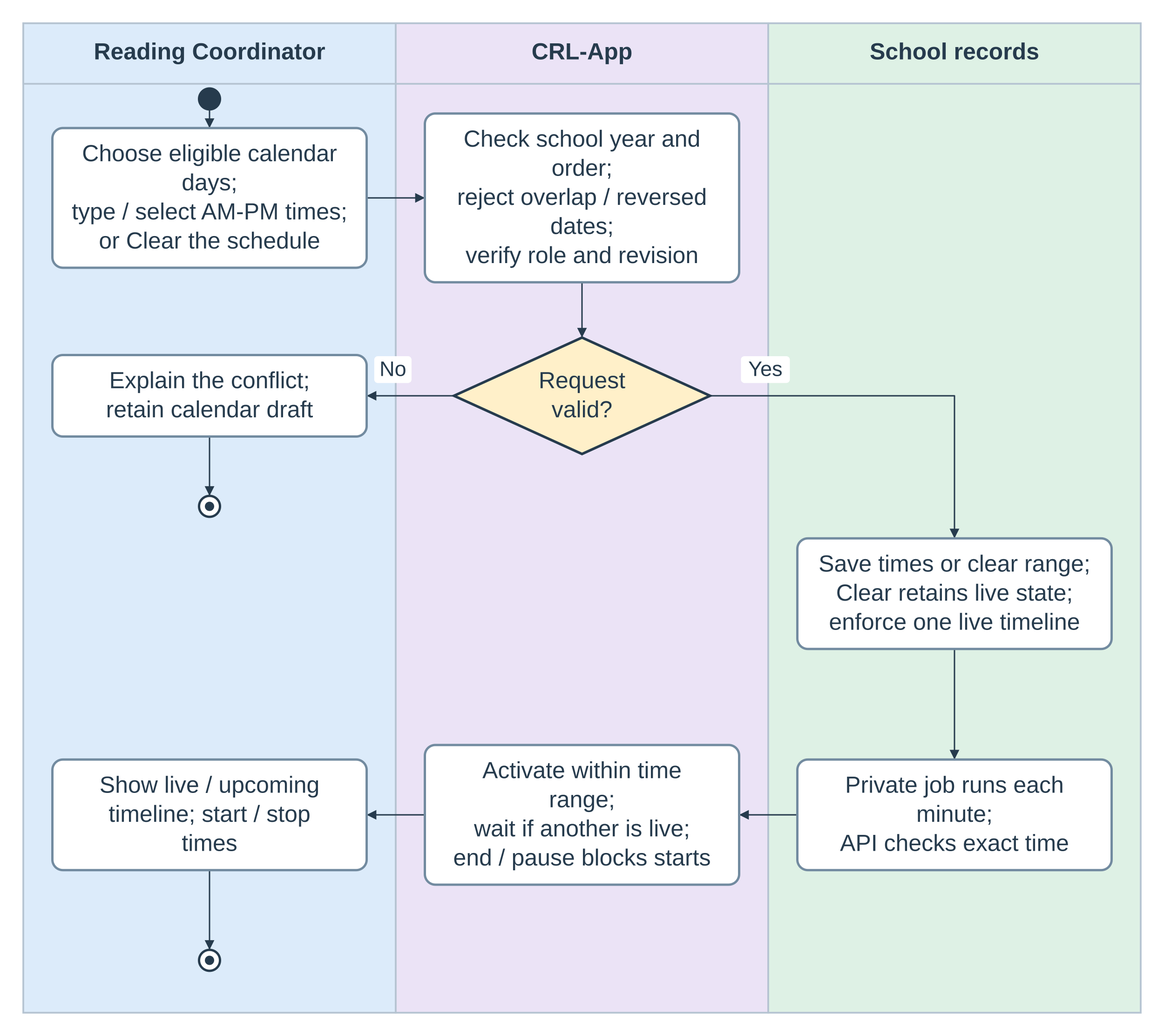
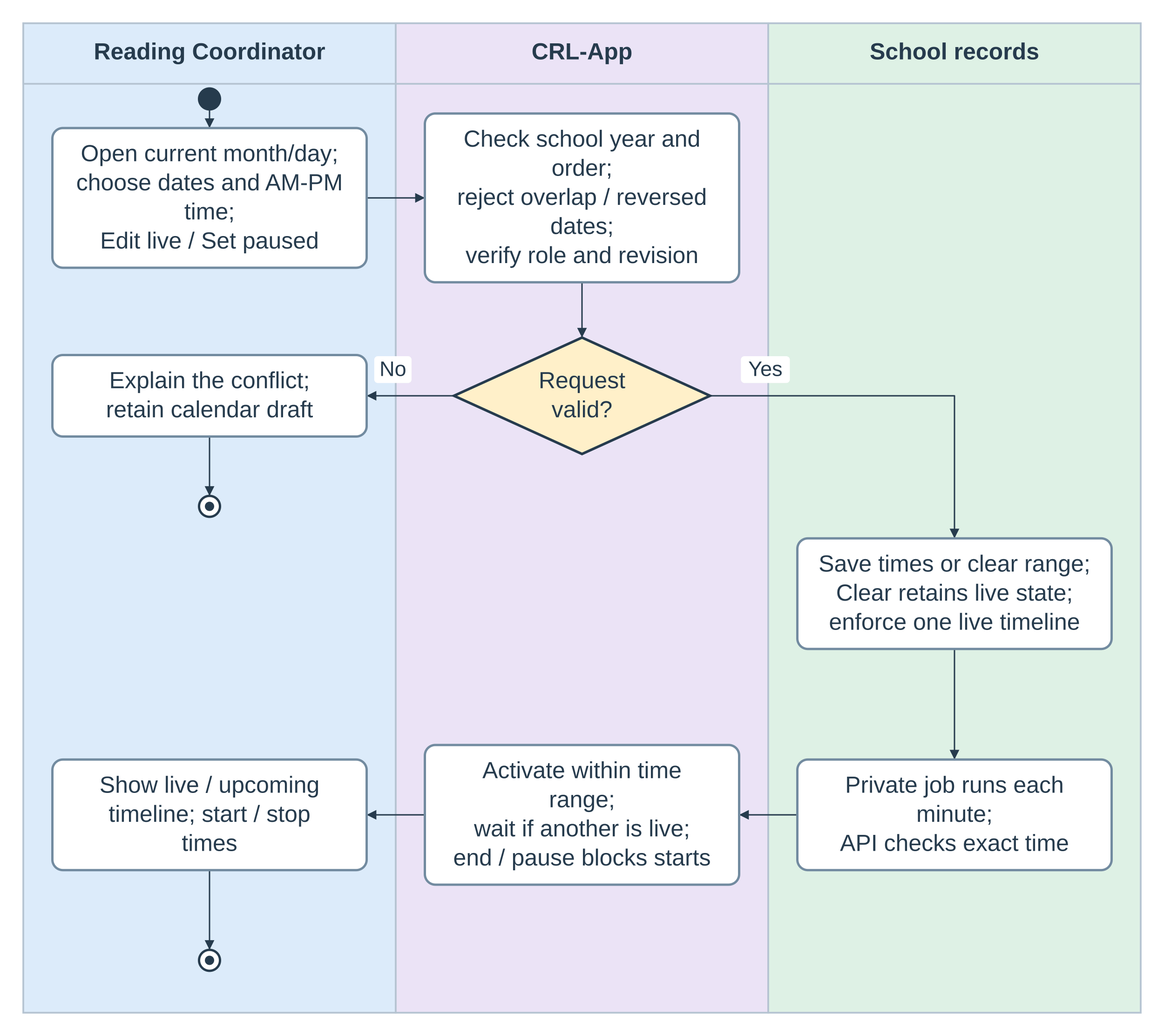
CRL-2026-11-07.9: live date labels, current-month calendar and school-year hover

Changed region(s): [[0.0624, 0.124, 0.312, 0.2481]]

diff --git a/components/SchoolAssessmentActivation.jsx b/components/SchoolAssessmentActivation.jsx
@@ -11,12 +11,12 @@ function TimelineScheduleDialog({period,row,year,rows,now,openedAt=now,busy,muta
  const [start,setStart]=useState(initialStart.day||(dayInSchoolYear(row?.startsOn,year)?row.startsOn:'')),[end,setEnd]=useState(initialEnd.day||(dayInSchoolYear(row?.endsOn,year)?row.endsOn:'')),[startTime,setStartTime]=useState(initialStart.time||localDateTime(new Date(openedAt).toISOString()).time),[endTime,setEndTime]=useState(initialEnd.time||'23:59'),[error,setError]=useState(''),[notice,setNotice]=useState('');const submitting=useRef(false);
  const reserved=rows.filter(r=>r.period!==period&&r.scheduleEnabled);
  const save=async enabled=>{if(submitting.current||busy)return;setError('');const startsAt=start?(start===initialStart.day&&startTime===initialStart.time?new Date(row.startsAt).toISOString():scheduleInstant(start,startTime)):null,endsAt=end?scheduleInstant(end,endTime):null,effectiveStart=startsAt||new Date(now).toISOString();if(enabled){const issue=instantIssue(effectiveStart,endsAt)||schoolYearIssue(effectiveStart,endsAt,Number(year));if(issue){setError(issue);return;}if(scheduledWindowOpen({startsAt:effectiveStart,endsAt},now)&&rows.some(r=>r.period!==period&&scheduleIsLive(r,now))){setNotice(SINGLE_LIVE_NOTICE);return;}const conflict=calendarConflict({period,startsAt:effectiveStart,endsAt},reserved,Number(year));if(conflict){setError(conflict.reason==='overlap'?'These dates overlap another timeline.':'Keep timeline dates in BoSY, MoSY, EoSY order.');return;}}submitting.current=true;try{await mutate(period,row,{assessment_action:'schedule',schedule_enabled:enabled,starts_at:startsAt,ends_at:endsAt});onClose();}catch(e){if(e.message.includes('Only one timeline'))setNotice(SINGLE_LIVE_NOTICE);else setError(e.message);}finally{submitting.current=false;}};
- return <ClassDialog title={row?.scheduleEnabled?'Edit start/stop dates':'Set start/stop dates'} showClose busy={busy} onClose={onClose}><div className={`${styles.panel} ${styles.scheduleDialog}`}><p className={styles.scheduleContext}>{period} · {year}–{Number(year)+1}</p><TimelineCalendar period={period} startYear={Number(year)} start={start} end={end} onChange={(a,b)=>{setStart(a);setEnd(b);setError('');}} reserved={reserved} disabled={busy} now={now}/><div className={styles.scheduleTimes}><TimeChoice label="Start time" value={startTime} onChange={setStartTime} disabled={busy}/><TimeChoice label="Stop time" value={endTime} onChange={setEndTime} disabled={busy}/></div>{error&&<p role="alert" className={styles.error}>{error}</p>}{row?.scheduleEnabled&&<button type="button" className={styles.removeSchedule} disabled={busy} onClick={()=>void save(false)}>Clear</button>}<div className={styles.scheduleActions}><button type="button" className={styles.secondary} disabled={busy} onClick={onClose}>Cancel</button><button type="button" className={styles.scheduleSave} disabled={busy||(!start&&!end)} onClick={()=>void save(true)}>{busy?'Saving…':'Save dates'}</button></div></div>{notice&&<NoticeDialog message={notice} onClose={()=>setNotice('')}/>}</ClassDialog>;
+ return <ClassDialog title={scheduleIsLive(row,now)?'Edit start/stop dates':'Set start/stop dates'} showClose busy={busy} onClose={onClose}><div className={`${styles.panel} ${styles.scheduleDialog}`}><p className={styles.scheduleContext}>{period} · {year}–{Number(year)+1}</p><TimelineCalendar period={period} startYear={Number(year)} start={start} end={end} onChange={(a,b)=>{setStart(a);setEnd(b);setError('');}} reserved={reserved} disabled={busy} now={now}/><div className={styles.scheduleTimes}><TimeChoice label="Start time" value={startTime} onChange={setStartTime} disabled={busy}/><TimeChoice label="Stop time" value={endTime} onChange={setEndTime} disabled={busy}/></div>{error&&<p role="alert" className={styles.error}>{error}</p>}{row?.scheduleEnabled&&<button type="button" className={styles.removeSchedule} disabled={busy} onClick={()=>void save(false)}>Clear</button>}<div className={styles.scheduleActions}><button type="button" className={styles.secondary} disabled={busy} onClick={onClose}>Cancel</button><button type="button" className={styles.scheduleSave} disabled={busy||(!start&&!end)} onClick={()=>void save(true)}>{busy?'Saving…':'Save dates'}</button></div></div>{notice&&<NoticeDialog message={notice} onClose={()=>setNotice('')}/>}</ClassDialog>;
 }
 function TimelineCard({period,row,year,rows,now,clockOffset=0,busy,mutate}){
  const [editor,setEditor]=useState(null),[error,setError]=useState(''),[notice,setNotice]=useState('');
  const live=scheduleIsLive(row,now),status=scheduleStatus(row,now),outside=row?.scheduleEnabled&&['Scheduled','Ended'].includes(status);
- return <article className={styles.timelineCard}><div className={styles.timelineTitle}><div><h2>{period}</h2><p className={styles.timelineMeaning}>{MEANINGS[period]}</p></div><span className={live?styles.liveBadge:styles.draftBadge}>{status}</span></div><dl className={styles.timelineDates}><div><dt>Start:</dt><dd>{formatScheduleInstant(row?.startsAt)||'Not set'}</dd></div><div><dt>End:</dt><dd>{formatScheduleInstant(row?.endsAt)||'Not set'}</dd></div></dl><button className={live?styles.pauseTimeline:styles.goLiveTimeline} disabled={!year||busy||outside} onClick={()=>{if(!live&&rows.some(r=>r.period!==period&&scheduleIsLive(r,now))){setNotice(SINGLE_LIVE_NOTICE);return;}void mutate(period,row,{assessment_action:'activate',is_live:!live}).catch(e=>{if(e.message.includes('Only one timeline'))setNotice(SINGLE_LIVE_NOTICE);else setError(e.message);});}}>{busy?'Saving…':live?'Pause':outside?status:'Go live'}</button><button type="button" className={styles.scheduleToggle} aria-haspopup="dialog" disabled={!year||busy} onClick={()=>{setError('');setEditor({row,openedAt:Date.now()+clockOffset});}}><span>{row?.scheduleEnabled?'Edit start/stop dates':'Set start/stop dates'}</span><svg aria-hidden="true" width="18" height="18" viewBox="0 0 24 24" fill="none" stroke="currentColor" strokeWidth="1.7"><rect x="3" y="5" width="18" height="16" rx="3"/><path d="M7 3v4m10-4v4M3 10h18m-13 5h2m4 0h2"/></svg></button>{editor&&<TimelineScheduleDialog period={period} row={editor.row} year={year} rows={rows} now={now} openedAt={editor.openedAt} busy={busy} mutate={mutate} onClose={()=>setEditor(null)}/>}{error&&<p role="alert" className={styles.error}>{error}</p>}{notice&&<NoticeDialog message={notice} onClose={()=>setNotice('')}/>}</article>;
+ return <article className={styles.timelineCard}><div className={styles.timelineTitle}><div><h2>{period}</h2><p className={styles.timelineMeaning}>{MEANINGS[period]}</p></div><span className={live?styles.liveBadge:styles.draftBadge}>{status}</span></div><dl className={styles.timelineDates}><div><dt>Start:</dt><dd>{formatScheduleInstant(row?.startsAt)||'Not set'}</dd></div><div><dt>End:</dt><dd>{formatScheduleInstant(row?.endsAt)||'Not set'}</dd></div></dl><button className={live?styles.pauseTimeline:styles.goLiveTimeline} disabled={!year||busy||outside} onClick={()=>{if(!live&&rows.some(r=>r.period!==period&&scheduleIsLive(r,now))){setNotice(SINGLE_LIVE_NOTICE);return;}void mutate(period,row,{assessment_action:'activate',is_live:!live}).catch(e=>{if(e.message.includes('Only one timeline'))setNotice(SINGLE_LIVE_NOTICE);else setError(e.message);});}}>{busy?'Saving…':live?'Pause':outside?status:'Go live'}</button><button type="button" className={styles.scheduleToggle} aria-haspopup="dialog" disabled={!year||busy} onClick={()=>{setError('');setEditor({row,openedAt:Date.now()+clockOffset});}}><span>{live?'Edit start/stop dates':'Set start/stop dates'}</span><svg aria-hidden="true" width="18" height="18" viewBox="0 0 24 24" fill="none" stroke="currentColor" strokeWidth="1.7"><rect x="3" y="5" width="18" height="16" rx="3"/><path d="M7 3v4m10-4v4M3 10h18m-13 5h2m4 0h2"/></svg></button>{editor&&<TimelineScheduleDialog period={period} row={editor.row} year={year} rows={rows} now={now} openedAt={editor.openedAt} busy={busy} mutate={mutate} onClose={()=>setEditor(null)}/>}{error&&<p role="alert" className={styles.error}>{error}</p>}{notice&&<NoticeDialog message={notice} onClose={()=>setNotice('')}/>}</article>;
 }
 export default function SchoolAssessmentActivation({api,refreshKey=0}) {
  const [data,setData]=useState(null),[year,setYear]=useState(''),[busy,setBusy]=useState(false),[loading,setLoading]=useState(true),[error,setError]=useState(''),[now,setNow]=useState(Date.now());const generation=useRef(0),pending=useRef(false),offset=useRef(0);

diff --git a/components/TimelineCalendar.jsx b/components/TimelineCalendar.jsx
@@ -6,10 +6,12 @@ import styles from './Coordinator.module.css';
 const MONTHS=Array.from({length:12},(_,m)=>new Intl.DateTimeFormat('en',{month:'long',timeZone:'UTC'}).format(new Date(Date.UTC(2027,m,1))));
 export default function TimelineCalendar({period,startYear,start,end,onChange,reserved=[],disabled=false,now=Date.now()}){
  const today=manilaDay(now),minYear=Number(startYear),maxYear=minYear+1,minDay=`${minYear}-01-01`,maxDay=`${maxYear}-12-31`,clamp=day=>day<minDay?minDay:day>maxDay?maxDay:day;
- const [month,setMonth]=useState(()=>clamp(today).slice(0,7)),[field,setField]=useState('start'),grid=useRef(null);
- useEffect(()=>{setMonth(clamp(today).slice(0,7));},[startYear,today]);
+ const openingMonth=String(Math.max(minYear,Math.min(maxYear,Number(today.slice(0,4)))))+today.slice(4,7);
+ const [month,setMonth]=useState(openingMonth),[field,setField]=useState('start'),grid=useRef(null);
+ useEffect(()=>{setMonth(openingMonth);},[openingMonth,today]);
  const select=key=>{setField(key);const day=key==='start'?start:end;if(day)setMonth(clamp(day).slice(0,7));};
  const [y,m]=month.split('-').map(Number),first=new Date(Date.UTC(y,m-1,1)).getUTCDay(),days=new Date(Date.UTC(y,m,0)).getUTCDate();
+ const presetDay=m===Number(today.slice(5,7))?`${month}-${String(Math.min(Number(today.slice(8,10)),days)).padStart(2,'0')}`:'';
  const occupied=day=>reserved.find(row=>{const r=calendarRange(row,startYear);return r.start&&day>=r.start&&day<=r.end;});
  const outOfOrder=day=>reserved.some(row=>{const r=calendarRange(row,startYear),before=TIMELINE_PERIODS.indexOf(row.period)<TIMELINE_PERIODS.indexOf(period);return r.start&&(before?day<=r.end:day>=r.start);});
  const blocked=day=>disabled||day<minDay||day>maxDay||Boolean(occupied(day))||outOfOrder(day)||(field==='end'&&start&&day<start);
@@ -17,5 +19,5 @@ export default function TimelineCalendar({period,startYear,start,end,onChange,re
  const choose=day=>{if(blocked(day))return;if(field==='start'){onChange(day,end&&end>=day?end:'');setField('end');}else onChange(start,day);};
  const shift=delta=>{const next=new Date(Date.UTC(y,m-1+delta,1)),nextYear=next.getUTCFullYear();if(nextYear>=minYear&&nextYear<=maxYear)setMonth(next.toISOString().slice(0,7));};
  const keys=(e,day)=>{const delta={ArrowLeft:-1,ArrowRight:1,ArrowUp:-7,ArrowDown:7}[e.key];if(!delta)return;e.preventDefault();const target=new Date(day+'T00:00:00Z');target.setUTCDate(target.getUTCDate()+delta);const next=target.toISOString().slice(0,10);if(blocked(next))return;setMonth(next.slice(0,7));requestAnimationFrame(()=>grid.current?.querySelector(`[data-day="${next}"]`)?.focus());};
- return <div className={styles.timelineCalendar} data-period={period} aria-label={`${period} schedule calendar`}><div className={styles.dateFields}>{['start','end'].map(key=><button key={key} type="button" aria-pressed={field===key} disabled={disabled} onClick={()=>select(key)}><span>{key==='start'?'Start date':'Stop date'}</span><strong>{formatScheduleDate(key==='start'?start:end)||'Choose date'}</strong></button>)}</div><div className={styles.calendarNav}><button type="button" aria-label={`Previous month for ${period}`} disabled={disabled||month===`${minYear}-01`} onClick={()=>shift(-1)}>‹</button><Select quietFocus aria-label={`${period} calendar month`} disabled={disabled} value={String(m)} onChange={e=>setMonth(`${y}-${e.target.value.padStart(2,'0')}`)}>{MONTHS.map((name,i)=><option value={i+1} key={name}>{name}</option>)}</Select><Select quietFocus aria-label={`${period} calendar year`} disabled={disabled} value={String(y)} onChange={e=>setMonth(`${e.target.value}-${String(m).padStart(2,'0')}`)}>{[minYear,maxYear].map(n=><option value={n} key={n}>{n}</option>)}</Select><button type="button" aria-label={`Next month for ${period}`} disabled={disabled||month===`${maxYear}-12`} onClick={()=>shift(1)}>›</button></div><div className={styles.calendarGrid} ref={grid} role="group" aria-label={`Choose ${field==='start'?'start':'stop'} date for ${period}`}><div className={styles.calendarWeek} aria-hidden="true">{'SMTWTFS'.split('').map((d,i)=><span key={i}>{d}</span>)}</div><div className={styles.calendarDays}>{Array.from({length:first},(_,i)=><span key={`blank${i}`}/>)}{Array.from({length:days},(_,i)=>{const day=`${month}-${String(i+1).padStart(2,'0')}`,reservation=occupied(day);return <button key={day} type="button" data-day={day} data-reserved={reservation?.period} data-in-range={Boolean(start&&end&&day>=start&&day<=end)} data-endpoint={day===start||day===end} aria-label={`${formatScheduleDate(day)}${reservation?`, reserved for ${reservation.period}`:''}`} aria-current={day===today?'date':undefined} disabled={blocked(day)} onKeyDown={e=>keys(e,day)} onClick={()=>choose(day)}>{i+1}</button>;})}</div></div></div>;
+ return <div className={styles.timelineCalendar} data-period={period} aria-label={`${period} schedule calendar`}><div className={styles.dateFields}>{['start','end'].map(key=><button key={key} type="button" aria-pressed={field===key} disabled={disabled} onClick={()=>select(key)}><span>{key==='start'?'Start date':'Stop date'}</span><strong>{formatScheduleDate(key==='start'?start:end)||'Choose date'}</strong></button>)}</div><div className={styles.calendarNav}><button type="button" aria-label={`Previous month for ${period}`} disabled={disabled||month===`${minYear}-01`} onClick={()=>shift(-1)}>‹</button><Select quietFocus aria-label={`${period} calendar month`} disabled={disabled} value={String(m)} onChange={e=>setMonth(`${y}-${e.target.value.padStart(2,'0')}`)}>{MONTHS.map((name,i)=><option value={i+1} key={name}>{name}</option>)}</Select><Select quietFocus aria-label={`${period} calendar year`} disabled={disabled} value={String(y)} onChange={e=>setMonth(`${e.target.value}-${String(m).padStart(2,'0')}`)}>{[minYear,maxYear].map(n=><option value={n} key={n}>{n}</option>)}</Select><button type="button" aria-label={`Next month for ${period}`} disabled={disabled||month===`${maxYear}-12`} onClick={()=>shift(1)}>›</button></div><div className={styles.calendarGrid} ref={grid} role="group" aria-label={`Choose ${field==='start'?'start':'stop'} date for ${period}`}><div className={styles.calendarWeek} aria-hidden="true">{'SMTWTFS'.split('').map((d,i)=><span key={i}>{d}</span>)}</div><div className={styles.calendarDays}>{Array.from({length:first},(_,i)=><span key={`blank${i}`}/>)}{Array.from({length:days},(_,i)=>{const day=`${month}-${String(i+1).padStart(2,'0')}`,reservation=occupied(day),preset=!start&&!end&&day===presetDay&&!blocked(day);return <button key={day} type="button" data-day={day} data-calendar-preset={preset} aria-pressed={day===start||day===end||preset} title={preset?'Current month/day preset':undefined} data-reserved={reservation?.period} data-in-range={Boolean(start&&end&&day>=start&&day<=end)} data-endpoint={day===start||day===end} aria-label={`${formatScheduleDate(day)}${reservation?`, reserved for ${reservation.period}`:''}`} aria-current={day===today?'date':undefined} disabled={blocked(day)} onKeyDown={e=>keys(e,day)} onClick={()=>choose(day)}>{i+1}</button>;})}</div></div></div>;
 }

diff --git a/components/Coordinator.module.css b/components/Coordinator.module.css
@@ -161,3 +161,7 @@
 .teacherAssignment{display:grid;gap:8px;min-width:0}.teacherAssignment label{display:grid;gap:8px;min-width:0}.teacherAssignment label>span{font-size:12px;font-weight:600;color:var(--crl-muted,#62738a)}.teacherAssignment .unassignTeacher{justify-self:start;margin:0!important;padding:8px 14px!important;min-height:36px!important;background:#fce7eb!important;border:1px solid #e7a8b5!important;border-radius:9px;color:#a32940!important;font-size:12px;font-weight:600;text-decoration:none;box-shadow:0 2px 6px #8b21320a}.teacherAssignment .unassignTeacher:disabled{opacity:.5}
 
 .yearDetail .yearHeading{justify-content:center;text-align:center}.yearDetail .yearHeading h2{width:100%;text-align:center}.assignmentQuestion{margin:0;line-height:1.7;overflow-wrap:anywhere}.teacherAssignment .unassignTeacher:focus-visible{outline:2px solid #b8335355;outline-offset:2px}:global(html[data-crl-theme=dark]) .teacherAssignment .unassignTeacher{background:#4a2733!important;border-color:#8d4b60!important;color:#ffd1dc!important}
+
+/* Calendar presets are visual only; choose a day before saving a new boundary. */
+.timelineCalendar .calendarDays button[data-calendar-preset=true]:not(:disabled){background:var(--range-bg)!important;color:var(--range-ink)!important;border-color:var(--range-edge)!important;box-shadow:inset 0 0 0 1px var(--range-edge)}
+.yearListItem{transition:background-color .16s ease,border-color .16s ease}@media(hover:hover) and (pointer:fine){.yearDirectory .yearListItem:hover{background:var(--crl-surface-2,#f0f3f7);border-color:#b9cadd}}.yearDirectory .yearListItem:focus-within{border-color:#b9cadd}@media(prefers-reduced-motion:reduce){.yearListItem{transition:none}}

diff --git a/scripts/verify-assessment-build.js b/scripts/verify-assessment-build.js
@@ -926,7 +926,7 @@ if (!/if \(existingSession\?\.signedOut\) return;/.test(teacherPreloadSource)) {
   );
 }
 if (
-  !/crla-pwa-v90/.test(serviceWorkerSource) ||
+  !/crla-pwa-v91/.test(serviceWorkerSource) ||
   !/event\.waitUntil\(warmAppShell\(\)\)/.test(serviceWorkerSource) ||
   !/await cacheDocumentDependencies\(response\)/.test(serviceWorkerSource) ||
   !/url\.pathname\.startsWith\("\/_next\/static\/"\)/.test(serviceWorkerSource)

diff --git a/public/sw.js b/public/sw.js
@@ -1,4 +1,4 @@
-const CACHE_NAME = "crla-pwa-v90";
+const CACHE_NAME = "crla-pwa-v91";
 
 const APP_SHELL = [
   "/",

diff --git a/docs/diagrams/class-workspaces/build_school_flow.py b/docs/diagrams/class-workspaces/build_school_flow.py
@@ -3,7 +3,7 @@ from pathlib import Path
 p=Path(__file__).with_name('build_coordinator_diagrams.py')
 s=p.read_text();exec(compile(s[:s.index('for name,coordinator in')],str(p),'exec'))
 make('figure-15c-assessment-activation',['Reading Coordinator','CRL-App','School records'],[
- ('s',0,85,'',S),('create',0,170,'Select school year;\nchoose a timeline card',P),('check',1,170,'Verify school, year and\npublished timeline contents',P),('draft',2,170,'Read current activation\nand published version',P),('live',0,340,'Go live without dates;\nrecord actual start time',P),('version',1,340,'Validate current version;\nprotect concurrent changes',P),('persist',2,340,'Create or update the\nlive trigger atomically',P),('choice',0,520,'Pause new\nstarts?',D),('serve',2,520,'Return only live timelines\nto assigned teacher apps',P),('sf',2,605,'',F),('pause',1,700,'Pause future starts; retain\nalready-running attempts',P),('pf',1,785,'',F)
+ ('s',0,85,'',S),('create',0,170,'Select school year;\nchoose a timeline card',P),('check',1,170,'Verify school, year and\npublished timeline contents',P),('draft',2,170,'Read current activation\nand published version',P),('live',0,340,'Go live; Edit dates button;\nPause restores Set button',P),('version',1,340,'Validate current version;\nprotect concurrent changes',P),('persist',2,340,'Create or update the\nlive trigger atomically',P),('choice',0,520,'Pause new\nstarts?',D),('serve',2,520,'Return only live timelines\nto assigned teacher apps',P),('sf',2,605,'',F),('pause',1,700,'Pause future starts; retain\nalready-running attempts',P),('pf',1,785,'',F)
 ],[('s','create'),('create','check','right','left'),('check','draft','right','left'),('draft','live','bottom','top',[(670,255),(150,255)]),('live','version','right','left'),('version','persist','right','left'),('persist','choice','bottom','top',[(670,435),(150,435)]),('choice','serve','right','left',None,'No',(300,503)),('serve','sf'),('choice','pause','bottom','top',[(150,620),(410,620)],'Yes',(180,600)),('pause','pf')],h=850)
 d=Diagram('figure-26c-school-flow-erd',1000,1200)
 d.entity('year',35,45,400,'global_school_years',['PK school_id, start_year','label; deleted_at ?'])
@@ -27,5 +27,5 @@ make('figure-15d-section-recycle',['School administrator','CRL-App','School reco
 ],[('s','delete'),('delete','archive','right','left'),('archive','retain','right','left'),('retain','open','bottom','top',[(670,260),(150,260)]),('open','valid','bottom','left',[(150,550)]),('valid','deny','bottom','top',[(410,650),(150,650)],'No',(440,630)),('deny','df'),('valid','restore','right','top',[(670,550)],'Yes',(538,533)),('restore','rf'),('timer','due'),('due','expire','right','left'),('expire','ef')],h=1160)
 
 make('figure-15e-timeline-scheduling',['Reading Coordinator','CRL-App','School records'],[
- ('s',0,85,'',S),('edit',0,170,'Choose eligible calendar days;\ntype / select AM-PM times;\nor Clear the schedule',P),('validate',1,170,'Check school year and order;\nreject overlap / reversed dates;\nverify role and revision',P),('valid',1,340,'Request\nvalid?',D),('reject',0,340,'Explain the conflict;\nretain calendar draft',P),('rf',0,435,'',F),('save',2,510,'Save times or clear range;\nClear retains live state;\nenforce one live timeline',P),('clock',2,700,'Private job runs each minute;\nAPI checks exact time',P),('effective',1,700,'Activate within time range;\nwait if another is live;\nend / pause blocks starts',P),('overview',0,700,'Show live / upcoming\ntimeline; start / stop times',P),('ef',0,825,'',F)
+ ('s',0,85,'',S),('edit',0,170,'Open current month/day;\nchoose dates and AM-PM time;\nEdit live / Set paused',P),('validate',1,170,'Check school year and order;\nreject overlap / reversed dates;\nverify role and revision',P),('valid',1,340,'Request\nvalid?',D),('reject',0,340,'Explain the conflict;\nretain calendar draft',P),('rf',0,435,'',F),('save',2,510,'Save times or clear range;\nClear retains live state;\nenforce one live timeline',P),('clock',2,700,'Private job runs each minute;\nAPI checks exact time',P),('effective',1,700,'Activate within time range;\nwait if another is live;\nend / pause blocks starts',P),('overview',0,700,'Show live / upcoming\ntimeline; start / stop times',P),('ef',0,825,'',F)
 ],[('s','edit'),('edit','validate','right','left'),('validate','valid'),('valid','reject','left','right',None,'No',(278,323)),('reject','rf'),('valid','save','right','top',[(670,340)],'Yes',(538,323)),('save','clock'),('clock','effective','left','right'),('effective','overview','left','right'),('overview','ef')],h=890)

diff --git a/docs/CHANGELOG.md b/docs/CHANGELOG.md
@@ -1,5 +1,52 @@
 # CRL-App version and change notes
 
+## CRL-2026-11-07.9 — Live date labels, current-month calendar and year hover
+
+Date: 7 November 2026, Asia/Manila. Timeline cards and their date dialogs now say
+Edit start/stop dates only while the timeline is live. Pause restores Set start/stop
+dates even when a saved schedule remains. Scheduled, ended and other non-live rows
+also use Set; clearing a schedule while live retains Edit. Label changes do not
+clear timestamps, alter scheduled activation or reset an assessment.
+
+The calendar opens in the current Philippine month, preserving November when the
+selected school-year pair requires another year. Its opening year is clamped to
+that pair without replacing the month with January or December. An eligible current
+day number is highlighted as a visual preset when neither boundary is set; opening
+the calendar does not fill or save a date. Leap days are clamped to the displayed
+month length. Saved boundaries remain intact and can be revisited through their
+date controls. Existing year, order, reserved-day colors, overlap and stop-before-
+start restrictions remain authoritative.
+
+School-year directory rows now use the Records teacher-list hover surface and
+border on devices with a fine pointer and hover support. Keyboard focus retains
+a visible border; reduced-motion preferences disable the transition. The effect
+adds no layout movement or sticky touch hover.
+
+Affected: timeline activation/calendar components, scoped coordinator styles,
+worker91/build guard, responsive browser checks and editable activation/scheduling
+activity figures. The native main capstone notes and both figures reflect the live/
+paused labels and current-month preset, retaining white actions, yellow decisions
+and the established lane colors and typography. ERD entities/relationships and
+use-case actors/permissions remain accurate; no new entity or permission is added.
+
+Production database readback confirmed school-year schedule and non-overlap
+constraints plus the active scheduler. No migration or operational-data rewrite
+is required for these presentation changes. Manual activation remains independent
+of the year label; configured schedules retain their calendar restrictions. No
+learner, assignment, assessment, journal or existing schedule was reset.
+
+Validation: clean npm ci; full npm run build with all 60 regression scripts,
+optimized compilation and an all-dependency audit with zero vulnerabilities. Browser
+checks passed at 320, 768 and 1440 pixels in both light/dark themes, including live/
+paused labels, saved-boundary retention, future-year November/day preset, explicit
+save requirement and year-row hover. The fixture now waits for completed tab
+navigation before choosing a year; production navigation behavior is unchanged.
+The 115-page native capstone export was checked with both changed figure pages
+rendered and visually reviewed. No physical-tablet evaluation is implied.
+
+Rollback: revert presentation/assets together and advance the worker build guard
+as needed. Retain database constraints, manual-activation policy and all records.
+
 ## CRL-2026-11-07.8 — Confirmed assignments, ownership notices and panel alignment
 
 Date: 7 November 2026, Asia/Manila. Choosing a different teacher now opens a second

diff --git a/docs/PROJECT_HANDOFF.md b/docs/PROJECT_HANDOFF.md
@@ -5,7 +5,33 @@ release history and `../AGENTS.md` for the required maintenance workflow.
 Verify the current source before changing behavior. These notes intentionally
 exclude identifying school context, device inventories and deployment details.
 
-## Current release — CRL-2026-11-07.8
+## Current release — CRL-2026-11-07.9
+
+Date controls on cards and dialogs follow effective live state: Edit while live,
+Set while paused or otherwise non-live. Saved boundaries survive Pause. Clearing
+while live retains Edit. Do not revert to using scheduleEnabled for these labels.
+
+Open calendars in the Philippine current month, clamping only the opening year to
+the selected pair. Highlight the eligible current day number only when no boundary
+is set; this is visual and does not fill or persist a date. Saved boundary controls
+still navigate to their actual dates. Leap-day projection clamps to month length.
+Keep school-year/order/overlap validation, period-colored reserved disabled days,
+stop-only server start and explicit-save behavior. Manual live event times remain
+actual timestamps, independent of the school-year label.
+
+School-year rows match Records teacher hover surface/border for fine-pointer hover;
+keep reduced-motion support and keyboard focus. Worker91 retains journals. Production
+readback confirms schedule constraints and scheduler; no migration or record change
+is needed. Preserve learner, assignment, assessment and timeline state on rollback.
+
+Native capstone notes and activation/scheduling activity sources are updated with
+the established diagram palette and format. ERD/use-case structures remain accurate.
+Clean install, full build/audit (60 scripts, zero vulnerabilities), six responsive
+width/theme combinations and visual review of the two native PDF figure pages
+passed. The synthetic navigation fixture waits for the completed tab change; no
+production navigation timing was altered. No physical-tablet result is established.
+
+## Previous release — CRL-2026-11-07.8
 
 Teacher selection is a confirmation draft. Show the chosen teacher and section in
 an Assign teacher? dialog with Confirm/Cancel before writing. Capture its year and
